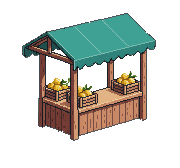
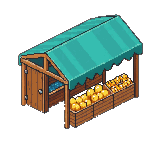
One projection, one timber: the port stops leaning
The goofy read had a single root: the deck structures did not share the
world's projection. The stalls were generated quasi-frontal and stood
on a strict 2:1 isometric deck at their own angles; the gateway arch
was fully frontal, spanning a diagonal walkway - impossible geometry.
Both stalls are regenerated as clean 2:1 isometric boxes on the world's
own diagonals, placed across the market pod's long diagonal so they sit
side by side at the same depth row with zero interpenetration, the
bunting sagging between their roofs. The arch is cut outright: two
generations came back frontal, and a flat gate on a diagonal pier will
always read broken - flawless beats cute.

The arrival court turns to timber with the rest of the deck: the stone
pavers read as a weird pattern break under the gate, a glitch rather
than a moment. One material, one body. The second freight stack goes
too - it sat alone mid-jetty like a crate dropped on a path. And the
harbor art loads now carry an explicit rule: bump the cache version
whenever a file is rewritten in place, so no browser ever resurrects
dead bytes again.

diff --git a/src/game/island/IslandMapIso.tsx b/src/game/island/IslandMapIso.tsx
@@ -2150,10 +2150,10 @@ export default function IslandMapIso() {
           const hb: Record<string, Texture> = {}
           for (const n of ['stone-block-a', 'stone-block-b', 'plank-block-a', 'crane', 'sloop', 'rowboat', 'boathouse', 'panther-statue', 'net-rack', 'beacon', 'deck-top-0', 'deck-top-1', 'deck-top-2', 'deck-top-v5-0', 'deck-top-v5-1', 'deck-top-v5-2', 'riprap-a', 'riprap-b', 'riprap-c', 'bollard-b', 'house-v4', 'house-v5', 'lamp-v4', 'stall-a', 'stall-b', 'stall-a2', 'stall-b2', 'cargo-b', 'cargo-c', 'fishing-boat', 'court-stone-a', 'gate-arch', 'gate-arch2', 'pavilion', 'bunting']) {
             try {
-              // v=6: several of these files were REWRITTEN in place (bg strip,
-              // shadow strip) — a stale ?v=5 cache kept serving the white-panel
+              // BUMP THIS whenever a file is rewritten in place (bg strip, regen
+              // under the same name) — a stale cache kept serving the white-panel
               // pavilion long after the disk was clean (Ash saw the old bytes)
-              const t: Texture = await Assets.load(`/art/island/harbor/${n}.png?v=6`)
+              const t: Texture = await Assets.load(`/art/island/harbor/${n}.png?v=7`)
               t.source.scaleMode = 'nearest'; hb[n] = t
             } catch { /* not landed yet */ }
           }
@@ -2517,10 +2517,10 @@ export default function IslandMapIso() {
             // the arrivals bell ON THE SHORE at the gangway landing (deck:false —
             // it stands on the sand, its own vignette, clear of the arch)
             mount(pt['bell-frame'], HARBOR.bell, { deck: false, sc: 0.5, sink: 4 })
-            // v7 SPICE · THE GATEWAY ARCH: the panther-banner arch spans the
-            // grand pier at its root — every arrival walks under the school's
-            // own colors (its baked plank base sits flush on the pier deck)
-            mount(hb['gate-arch2'] ?? hb['gate-arch'], [HARBOR.root[0] + 2.6, HARBOR.root[1] + 0.5], { sc: 0.95, glow: true })
+            // (THE GATEWAY ARCH IS CUT, 2026-07-17: both generations came back
+            // FRONTAL — a flat gate spanning a DIAGONAL walkway is impossible
+            // geometry and read as the goofiest thing in the frame. Flawless
+            // beats cute; the pavilion + bell + stalls carry the composition.)
             // FREIGHT, base-free (Ash 2026-07-16 glitch sweep: cargo-a was pale
             // grey steel out of the island's palette; cargo-b carried a baked-in
             // sandstone slab that double-floored the deck). ONE warm timber
@@ -2532,10 +2532,9 @@ export default function IslandMapIso() {
             // its own hung lanterns; the freight tucks beside its west post.
             const headX = HARBOR.bollards[1][0]   // the pierhead's east column
             mount(hb['pavilion'], [headX - 1.6, HARBOR.root[1] + 0.6], { sc: 0.85, glow: true })
-            if (cargoT) {
-              mount(cargoT, [headX - 2.7, HARBOR.root[1] + 1.3], { sc: 0.5 })
-              mount(cargoT, HARBOR.cargo[1], { sc: 0.55, flip: true })
-            }
+            // ONE freight beat, at the pierhead yard (the second stack sat alone
+            // mid-jetty and read as a random crate on the path — restraint wins)
+            if (cargoT) mount(cargoT, [headX - 2.7, HARBOR.root[1] + 1.3], { sc: 0.5 })
             for (const L2 of HARBOR.lanterns) {
               // v4: the new driftwood dock lamp (teal pennant, warm glass) replaces
               // the old lantern-post where it has landed
@@ -2687,20 +2686,23 @@ export default function IslandMapIso() {
             // lean into each other with freight between, never one prop per pod
             // centered by a snap — the interior snap shoved the fruit stall onto
             // the pod's back lip where it hung over the water)
-            mount(hb['stall-a2'] ?? hb['stall-a'], [HARBOR.root[0] - 0.7, HARBOR.root[1] - 6.4], { sc: 0.88 })
-            // pulled inboard: at +1.1 the fish stall's counter corner hung past
-            // the pod's east lip over open water (Ash: "buildings floating over
-            // the edge of the harbor")
-            mount(hb['stall-b2'] ?? hb['stall-b'], [HARBOR.root[0] + 0.55, HARBOR.root[1] - 5.9], { sc: 0.9, flip: true })
+            // v9: BOTH stalls regenerated in STRICT 2:1 iso (the old pair were
+            // quasi-frontal — "leaning in weird angles... goofy and glitched",
+            // Ash 2026-07-17). Placed on the pod's LONG DIAGONAL — back-right
+            // and front-left sit at the same depth row, so two full stalls fit
+            // side by side with zero occlusion (stacked overlap made a mutant
+            // double-roof; a 5x4 pod has no room for "artful" overlap).
+            mount(hb['stall-a2'] ?? hb['stall-a'], [HARBOR.root[0] + 0.9, HARBOR.root[1] - 7.4], { sc: 0.88 })
+            mount(hb['stall-b2'] ?? hb['stall-b'], [HARBOR.root[0] - 1.15, HARBOR.root[1] - 5.35], { sc: 0.88, flip: true })
             if (cargoT) mount(cargoT, [HARBOR.root[0] - 1.7, HARBOR.root[1] - 5.3], { sc: 0.42, flip: true })
             // festival bunting strung stall-to-stall — anchored on real posts at
             // both ends (a string hung on nothing is the floating-asset class)
             if (hb['bunting']) {
               const mLift = harborAt(Math.round(HARBOR.root[0]), Math.round(HARBOR.root[1] - 6))?.lift ?? 0
-              const ax = isoX(HARBOR.root[0] - 0.7, HARBOR.root[1] - 6.4)
-              const ay = isoY(HARBOR.root[0] - 0.7, HARBOR.root[1] - 6.4) + GY - mLift + 8 - 118
-              const bx3 = isoX(HARBOR.root[0] + 0.55, HARBOR.root[1] - 5.9)
-              const by3 = isoY(HARBOR.root[0] + 0.55, HARBOR.root[1] - 5.9) + GY - mLift + 8 - 124
+              const ax = isoX(HARBOR.root[0] - 1.15, HARBOR.root[1] - 5.35)
+              const ay = isoY(HARBOR.root[0] - 1.15, HARBOR.root[1] - 5.35) + GY - mLift + 8 - 108
+              const bx3 = isoX(HARBOR.root[0] + 0.9, HARBOR.root[1] - 7.4)
+              const by3 = isoY(HARBOR.root[0] + 0.9, HARBOR.root[1] - 7.4) + GY - mLift + 8 - 108
               const st = new Sprite(hb['bunting'])
               st.anchor.set(0, 0.32)               // the rope line rides the strip's top
               const d2 = Math.hypot(bx3 - ax, by3 - ay)

diff --git a/src/game/island/hub-layout.ts b/src/game/island/hub-layout.ts
@@ -506,10 +506,11 @@ export function initHubLayout() {
     const QX = WL + 2
     const eAt: number[] = []
     for (let y = ryN - 3; y <= ryS + 4; y++) eAt[y] = WL
-    // THE STONE ARRIVAL COURT first (push order wins the dedup): 3x3 over the
-    // shallows, the gangway's landing — the single material accent
+    // THE ARRIVAL COURT is TIMBER like everything else (the stone pavers read
+    // as "a weird different pattern" under the gate, a glitch not a moment —
+    // Ash 2026-07-17. One material, one body: the port is a timber structure.)
     for (let y = ryMid - 1; y <= ryMid + 1; y++) {
-      for (let x = QX - 1; x <= QX + 1; x++) push({ tx: x, ty: y, lift: HL, mat: 'stone', walk: true })
+      for (let x = QX - 1; x <= QX + 1; x++) push({ tx: x, ty: y, lift: HL, mat: 'plank', walk: true })
     }
     // the GANGWAY: steps bridging the court back to the dry sand
     push({ tx: QX - 2, ty: ryMid, lift: Math.round(HL / 2), mat: 'plank', walk: true })
